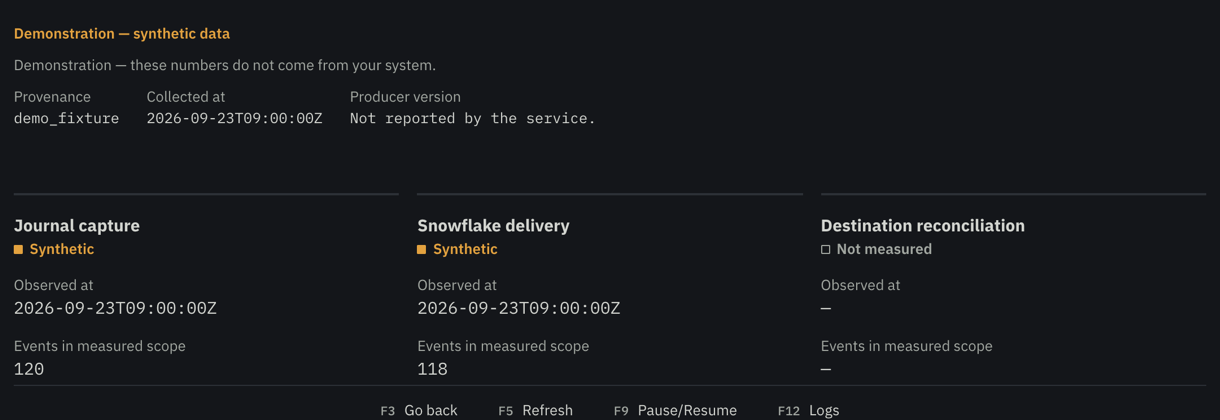
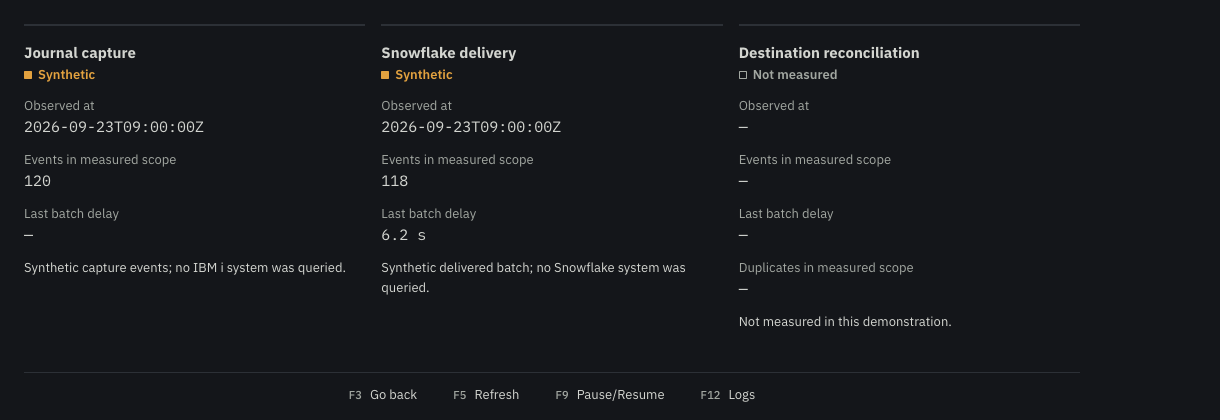
docs(site): capture the 0.4.6 synthetic cockpit

diff --git a/site/index.html b/site/index.html
@@ -49,7 +49,7 @@
     <div class="hero__aside">
       <figure class="product-frame hero__figure">
         <picture><source srcset="assets/cockpit-evidence-strip-dark.png" media="(prefers-color-scheme: dark)"><img src="assets/cockpit-evidence-strip-light.png" width="1220" height="420" fetchpriority="high" alt="Quadringent cockpit, Evidence tab of a synthetic demo table, cropped to its three readings: journal capture shows 120 events and Snowflake delivery 118 events, both marked Synthetic, and destination reconciliation is marked Not measured."></picture>
-        <figcaption>Demonstration, synthetic data, source <span class="mono">0.4.5</span>. <a href="assets/cockpit-evidence-light.png">Full capture</a>. <a href="#try">Run it yourself, no setup</a>.</figcaption>
+        <figcaption>Demonstration, synthetic data, source <span class="mono">0.4.6</span>. <a href="assets/cockpit-evidence-light.png">Full capture</a>. <a href="#try">Run it yourself, no setup</a>.</figcaption>
       </figure>
       <div class="poc">
         <h2 class="poc__title">What a POC touches</h2>
